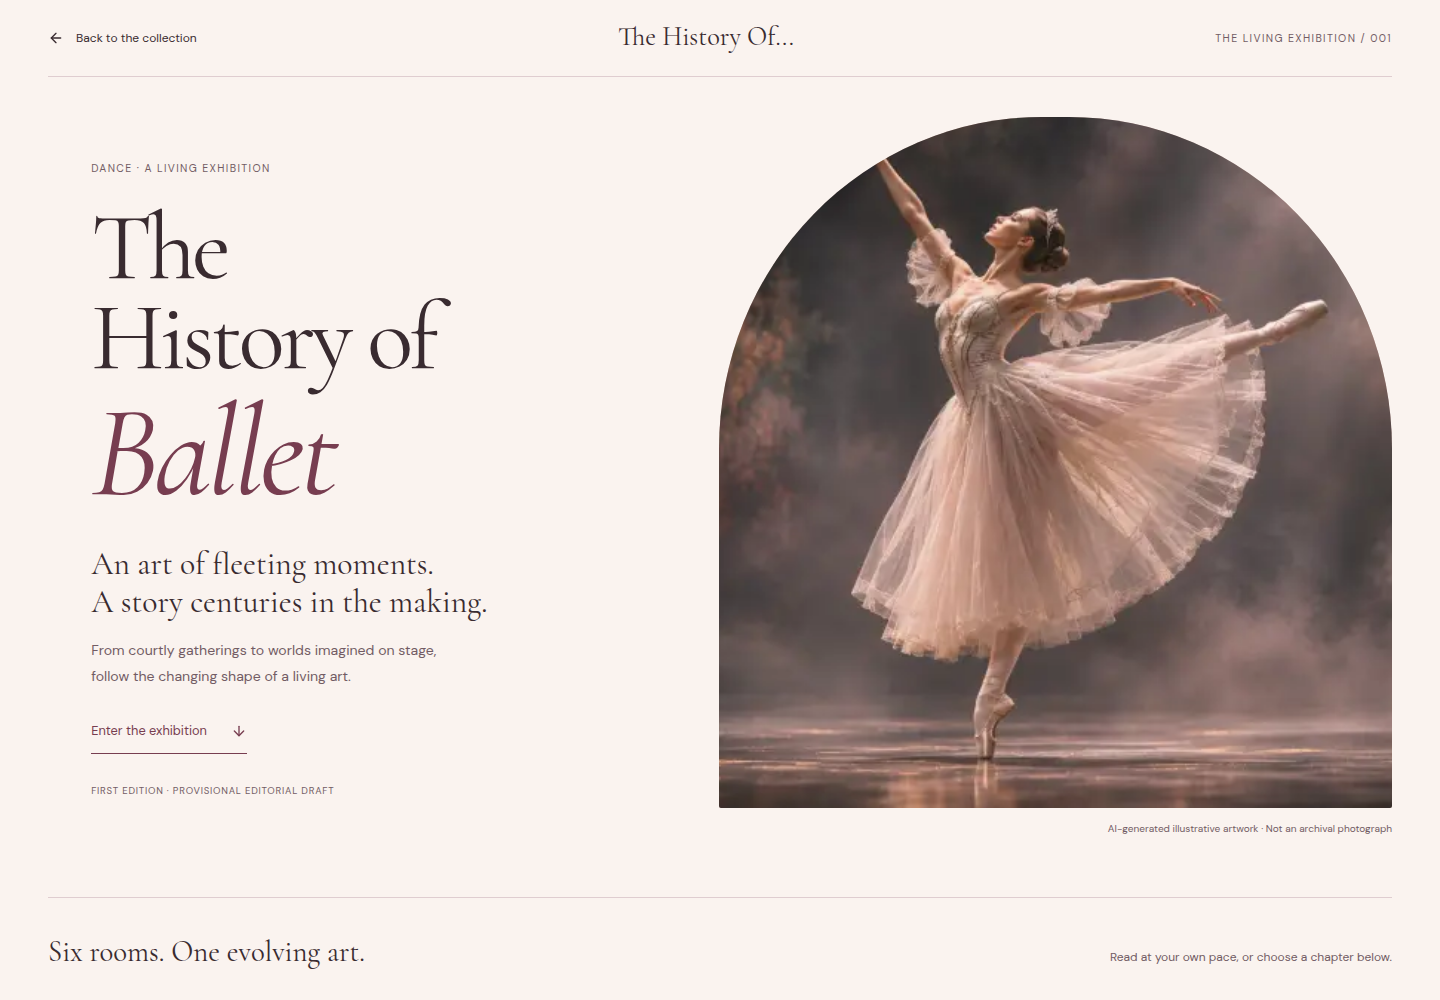
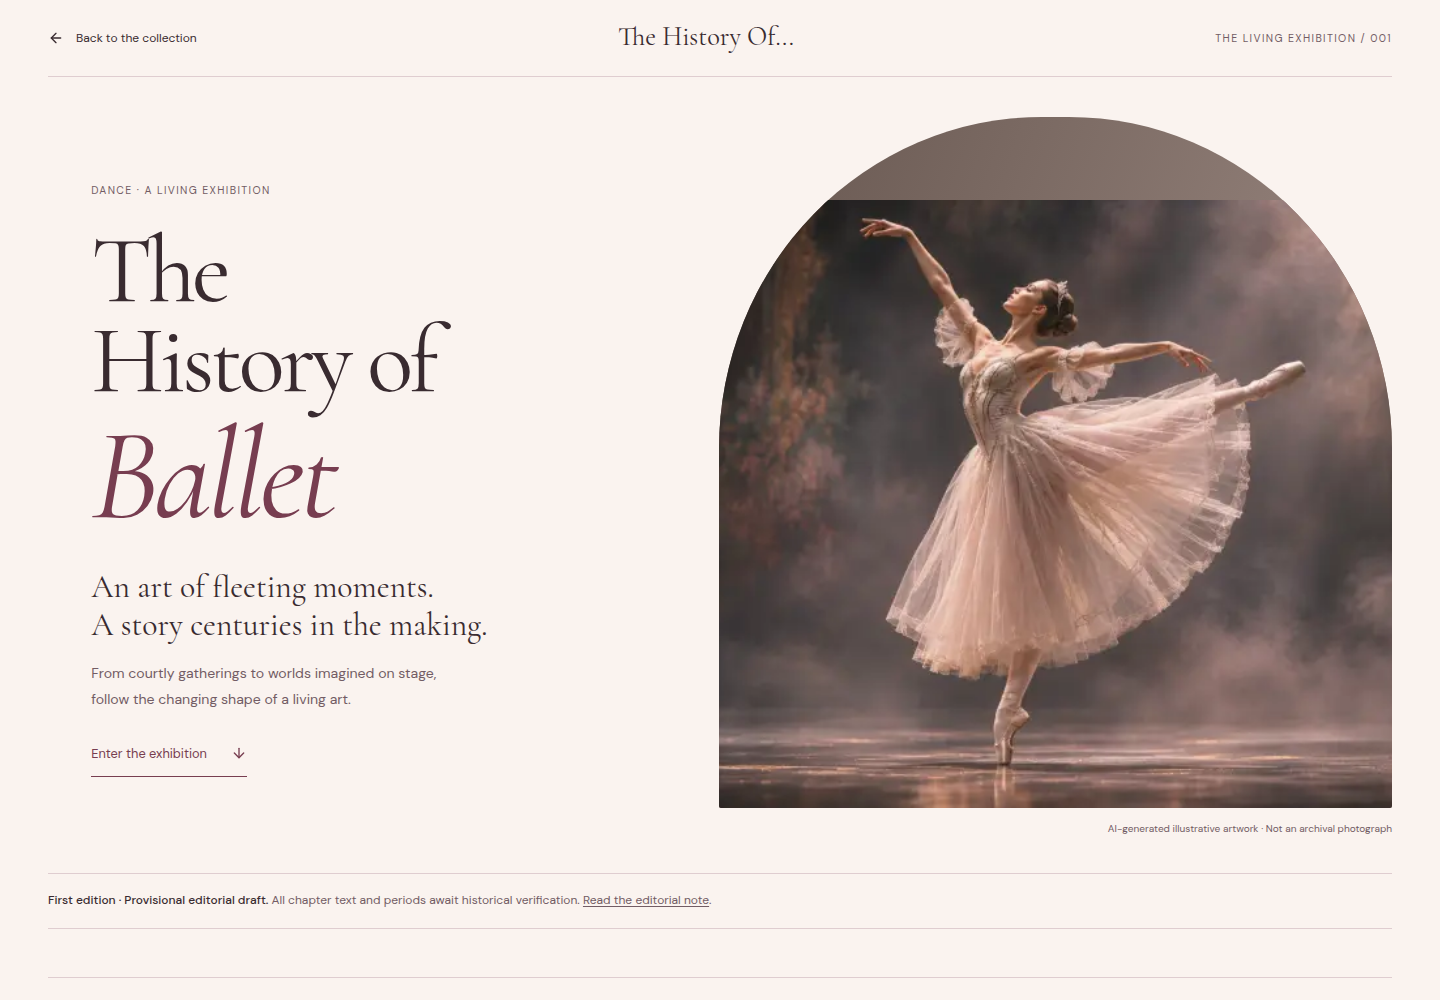
Refine Ballet framing and chapter navigation after review

diff --git a/src/app/ballet/ballet.css b/src/app/ballet/ballet.css
@@ -12,8 +12,8 @@
 .ballet-header { display: flex; align-items: center; justify-content: space-between; gap: 1.5rem; margin-inline: auto; width: calc(100% - 6rem); padding-block: 1rem; border-bottom: 1px solid var(--rule); }
 .ballet-returnLink { display: inline-flex; align-items: center; gap: .75rem; font-size: .75rem; }
 .ballet-wordmark, .ballet-footer > a { display: inline-flex; align-items: center; font-family: var(--font-display), Georgia, serif; font-size: 1.65rem; }
-.ballet-headerLabel, .ballet-eyebrow, .ballet-edition, .ballet-draftLabel, .ballet-previewLabel { font-size: .66rem; letter-spacing: .13em; line-height: 1.8; text-transform: uppercase; }
-.ballet-headerLabel, .ballet-eyebrow, .ballet-edition, .ballet-draftLabel { color: var(--muted); }
+.ballet-headerLabel, .ballet-eyebrow, .ballet-previewLabel { font-size: .66rem; letter-spacing: .13em; line-height: 1.8; text-transform: uppercase; }
+.ballet-headerLabel, .ballet-eyebrow { color: var(--muted); }
 .ballet-hero { display: grid; grid-template-columns: 1fr 1.08fr; padding: 2.5rem 3rem 0; max-width: 100rem; margin-inline: auto; align-items: center; gap: 3rem; }
 .ballet-heroCopy { padding: 2.5rem 0 3rem 3vw; }
 .ballet-eyebrow { margin: 0; }
@@ -23,15 +23,15 @@
 .ballet-heroDescription { font-size: .88rem; line-height: 1.85; max-width: 23rem; color: var(--muted); }
 .ballet-beginLink, .ballet-nextLink { display: inline-flex; align-items: center; justify-content: space-between; gap: 1.5rem; font-size: .8rem; border-bottom: 1px solid var(--wine); padding-block: .8rem; color: var(--wine); }
 .ballet-beginLink { margin-top: 1.2rem; }
-.ballet-edition { margin-top: 1.75rem; font-size: .6rem; letter-spacing: .08em; }
+
 .ballet-heroFigure { margin: 0; min-width: 0; }
-.ballet-heroImage { position: relative; height: clamp(30rem, 48vw, 46rem); background: #d9bdb7; border-radius: 48% 48% 2px 2px; overflow: hidden; }
-.ballet-heroImage img { object-fit: cover; object-position: 52% center; }
+.ballet-heroImage { position: relative; height: clamp(30rem, 48vw, 46rem); background: linear-gradient(110deg, #66564f, #a28f88); border-radius: 48% 48% 2px 2px; overflow: hidden; }
+.ballet-heroImage img { position: absolute; top: 12%; left: 0; width: 100%; height: 88%; object-fit: cover; object-position: center; }
 .ballet-heroFigure figcaption { font-size: .63rem; color: var(--muted); line-height: 1.7; padding: .75rem 0; text-align: right; }
 .ballet-threshold { margin: 3rem 3rem 0; padding: 2rem 0; border-block: 1px solid var(--rule); display: flex; align-items: baseline; justify-content: space-between; gap: 1rem; }
 .ballet-threshold p { font-family: var(--font-display), Georgia, serif; font-size: 1.8rem; margin: 0; }
 .ballet-threshold span { font-size: .75rem; color: var(--muted); }
-.ballet-storyLayout { display: grid; grid-template-columns: 17rem minmax(0, 1fr); max-width: 100rem; margin-inline: auto; padding: 0 3rem; gap: 3rem; }
+.ballet-storyLayout { display: grid; grid-template-columns: 17rem minmax(0, 1fr); max-width: 100rem; margin-inline: auto; padding: 0 3rem 0 1.5rem; gap: 4.5rem; }
 .ballet-chapterNav { position: sticky; top: 1rem; align-self: start; padding-block: 2.5rem; }
 .ballet-navTitle { font-size: .65rem; letter-spacing: .12em; text-transform: uppercase; margin: 0 0 1.5rem; color: var(--wine); }
 .ballet-navTitle > span { display: block; font-size: .6rem; letter-spacing: .05em; margin-top: .5rem; color: var(--muted); }
@@ -51,8 +51,8 @@
 .ballet-summary { max-width: 30rem; line-height: 1.8; font-size: .9rem; margin: 1.5rem 0 0; }
 .ballet-motif { position: absolute; bottom: -.2em; right: .1em; font-family: var(--font-display), Georgia, serif; font-size: clamp(4rem, 8vw, 9rem); font-style: italic; color: #78485812; z-index: -1; }
 .ballet-storyText { max-width: 38rem; margin: 2.5rem auto 4rem; padding-inline: 1.5rem; }
-.ballet-storyText > p:not(.ballet-draftLabel) { font-size: 1rem; line-height: 1.95; margin-block: 1.25rem; }
-.ballet-draftLabel { font-size: .6rem; letter-spacing: .07em; }
+.ballet-storyText > p { font-size: 1rem; line-height: 1.95; margin-block: 1.25rem; }
+
 .ballet-chapter[data-room="2"] .ballet-roomEntrance { background: #e7e6dc; border-top: 3px solid #929580; }
 .ballet-chapter[data-room="2"] .ballet-roomEntrance::after { border-radius: 0; transform: rotate(0); inset: 1.5rem; width: auto; height: auto; }
 .ballet-chapter[data-room="3"] .ballet-roomEntrance { background: radial-gradient(ellipse at 85% 15%, #fff5ee, transparent 60%), #ead5dc; min-height: 27rem; }
@@ -86,7 +86,7 @@
   .ballet-hero { grid-template-columns: 1fr 1fr; gap: 1.5rem; padding: 2rem 1.5rem 0; }
   .ballet-heroCopy { padding: 1rem 0; }
   .ballet-hero h1 { font-size: clamp(3.25rem, 7vw, 5rem); }
-  .ballet-heroImage { height: 35rem; }
+  .ballet-heroImage { height: auto; aspect-ratio: 1 / 1.05; }
   .ballet-threshold { margin: 2rem 1.5rem 0; }
   .ballet-storyLayout { display: block; padding-inline: 1.5rem; }
   .ballet-chapterNav { position: static; padding-bottom: 1.5rem; }
@@ -110,8 +110,8 @@
   .ballet-deck { font-size: 1.8rem; margin-top: 1.5rem; }
   .ballet-heroDescription { max-width: 27rem; }
   .ballet-beginLink { margin-top: .5rem; }
-  .ballet-edition { margin-top: 1rem; }
-  .ballet-heroImage { height: auto; aspect-ratio: 4 / 5; }
+
+  .ballet-heroImage { height: auto; aspect-ratio: 1 / 1.05; }
   .ballet-heroFigure figcaption { font-size: .6rem; text-align: left; }
   .ballet-threshold { display: block; padding-block: 1.5rem; margin-top: 1.5rem; }
   .ballet-threshold p { margin-bottom: .5rem; }
@@ -123,4 +123,35 @@
   .ballet-storyText { padding-inline: .25rem; margin-top: 2rem; }
   .ballet-discovery { padding: 1.5rem; }
   .ballet-footer { flex-wrap: wrap; }
+}
+
+/* Native disclosure keeps all chapter anchors available without JavaScript. */
+.ballet-chapterIndex summary { cursor: pointer; min-height: 44px; padding-block: .85rem; font-size: .8rem; color: var(--wine); }
+.ballet-currentChapter { display: block; font-size: .7rem; color: var(--muted); margin-top: .4rem; }
+.ballet-draftNotice { margin: 1.5rem 3rem 0; padding-block: 1rem; border-block: 1px solid var(--rule); color: var(--muted); }
+.ballet-draftNotice p { margin: 0; font-size: .75rem; line-height: 1.8; }
+.ballet-draftNotice strong { font-weight: 500; color: var(--foreground); }
+.ballet-draftNotice a { text-decoration: underline; text-underline-offset: .2em; }
+@media (min-width: 60rem) {
+  .ballet-chapterIndex[open] summary { display: none; }
+  .ballet-chapter[data-room="2"], .ballet-chapter[data-room="6"] { display: grid; grid-template-columns: minmax(0, 1fr) minmax(0, 1fr); align-items: center; gap: 2rem; }
+  .ballet-chapter[data-room="2"] .ballet-roomEntrance, .ballet-chapter[data-room="6"] .ballet-roomEntrance { padding: 2.5rem 2rem; min-height: 30rem; }
+  .ballet-chapter[data-room="2"] h2, .ballet-chapter[data-room="6"] h2 { font-size: clamp(2.5rem, 3vw, 3.75rem); }
+  .ballet-chapter[data-room="2"] .ballet-storyText, .ballet-chapter[data-room="6"] .ballet-storyText { padding: 0; margin-block: 2rem; }
+}
+@media (max-width: 70rem) and (min-width: 60rem) {
+  .ballet-storyLayout { gap: 3rem; }
+  .ballet-chapter[data-room="2"], .ballet-chapter[data-room="6"] { display: block; }
+}
+@media (max-width: 59.99rem) {
+  .ballet-storyLayout { padding-inline: 1.5rem; }
+  .ballet-draftNotice { margin-inline: 1.5rem; }
+  .ballet-chapterNav { padding-block: 1rem; border-bottom: 1px solid var(--rule); }
+  .ballet-indexLinks { padding-top: 1rem; }
+}
+@media (max-width: 39.99rem) {
+  .ballet-hero { padding-top: 1rem; }
+  .ballet-hero h1 { margin-block: 1rem; }
+  .ballet-deck { margin-block: 1rem .75rem; }
+  .ballet-heroDescription { margin-block: .75rem; }
 }

diff --git a/src/components/story/ChapterNav.tsx b/src/components/story/ChapterNav.tsx
@@ -9,6 +9,11 @@ export function ChapterNav({ chapters }: { chapters: readonly ChapterLink[] }) {
   const [active, setActive] = useState<string | null>(null);
 
   useEffect(() => {
+    const index = document.querySelector<HTMLDetailsElement>(".ballet-chapterIndex");
+    const desktop = window.matchMedia("(min-width: 60rem)");
+    const syncIndex = () => { if (index) index.open = desktop.matches; };
+    syncIndex();
+    desktop.addEventListener("change", syncIndex);
     const sections = chapters.map(({ id }) => document.getElementById(id));
     let frame = 0;
     const update = () => {
@@ -26,26 +31,37 @@ export function ChapterNav({ chapters }: { chapters: readonly ChapterLink[] }) {
     window.addEventListener("scroll", schedule, { passive: true });
     window.addEventListener("resize", schedule);
     return () => {
+      desktop.removeEventListener("change", syncIndex);
       cancelAnimationFrame(frame);
       window.removeEventListener("scroll", schedule);
       window.removeEventListener("resize", schedule);
     };
   }, [chapters]);
 
+  const currentChapter = chapters.find((chapter) => chapter.id === active);
+
   return (
     <nav className="ballet-chapterNav" aria-label="Ballet chapters">
-      <p className="ballet-navTitle">Inside the exhibition <span>Six chapters</span></p>
-      <ol>
-        {chapters.map((chapter, index) => (
-          <li key={chapter.id}>
-            <a href={`#${chapter.id}`} aria-current={active === chapter.id ? "location" : undefined}>
-              <span className="ballet-navNumber" aria-hidden="true">{String(index + 1).padStart(2, "0")}</span>
-              <span>{chapter.label}<small>{chapter.period}</small></span>
-            </a>
-          </li>
-        ))}
-      </ol>
-      <a className="ballet-navFoot" href="#editorial-note">About this first edition ↗</a>
+      <details className="ballet-chapterIndex">
+        <summary>
+          <span className="ballet-indexAction">Explore chapters</span>
+          <span className="ballet-currentChapter">{currentChapter ? `Reading: ${currentChapter.label}` : "Six rooms · Choose your path"}</span>
+        </summary>
+        <div className="ballet-indexLinks">
+          <p className="ballet-navTitle">Inside the exhibition <span>Six chapters</span></p>
+          <ol>
+            {chapters.map((chapter, index) => (
+              <li key={chapter.id}>
+                <a href={`#${chapter.id}`} aria-current={active === chapter.id ? "location" : undefined}>
+                  <span className="ballet-navNumber" aria-hidden="true">{String(index + 1).padStart(2, "0")}</span>
+                  <span>{chapter.label}<small>{chapter.period}</small></span>
+                </a>
+              </li>
+            ))}
+          </ol>
+          <a className="ballet-navFoot" href="#editorial-note">About this first edition ↗</a>
+        </div>
+      </details>
     </nav>
   );
 }

diff --git a/src/app/ballet/page.tsx b/src/app/ballet/page.tsx
@@ -30,15 +30,17 @@ export default function BalletPage() {
             <p className="ballet-deck">An art of fleeting moments.<br />A story centuries in the making.</p>
             <p className="ballet-heroDescription">From courtly gatherings to worlds imagined on stage, follow the changing shape of a living art.</p>
             <a href="#renaissance-courts" className="ballet-beginLink">Enter the exhibition <ArrowDown size={16} aria-hidden="true" /></a>
-            <p className="ballet-edition">First edition · Provisional editorial draft</p>
           </div>
           <figure className="ballet-heroFigure">
             <div className="ballet-heroImage">
-              <Image src={artwork.src} alt={`Illustration: ${artwork.alt}`} fill sizes="(min-width: 960px) 55vw, 100vw" preload />
+              <Image src={artwork.src} alt={`Illustration: ${artwork.alt}`} width={1672} height={941} sizes="(min-width: 960px) 55vw, 100vw" preload />
             </div>
             <figcaption>{artwork.attribution} · Not an archival photograph</figcaption>
           </figure>
         </section>
+        <aside className="ballet-draftNotice" aria-label="Editorial status">
+          <p><strong>First edition · Provisional editorial draft.</strong> All chapter text and periods await historical verification. <a href="#editorial-note">Read the editorial note</a>.</p>
+        </aside>
         <div className="ballet-threshold">
           <p>Six rooms. One evolving art.</p>
           <span>Read at your own pace, or choose a chapter below.</span>
@@ -58,7 +60,6 @@ export default function BalletPage() {
                     <span className="ballet-motif" aria-hidden="true">{chapter.motif}</span>
                   </div>
                   <div className="ballet-storyText">
-                    <p className="ballet-draftLabel">Provisional narrative · Sources pending</p>
                     {chapter.story.map((paragraph) => <p key={paragraph}>{paragraph}</p>)}
                     {chapter.discoveries?.map((discovery) => (
                       <aside key={discovery.id} className="ballet-discovery" aria-labelledby={`${discovery.id}-title`}>

diff --git a/docs/review/ballet-phase-1/README.md b/docs/review/ballet-phase-1/README.md
@@ -20,6 +20,9 @@ Captured from the successful production build in headless Chrome, using the exis
 - [Mobile entrance, 375 × 812](mobile.png)
 - [Mobile chapter index, 375 × 812](mobile-chapters.png)
 - [Mobile complete page, 375px wide](mobile-full.png)
+- [Mobile complete pose and attribution](mobile-pose.png)
+- [Mobile chapter index expanded](mobile-chapters-open.png)
+- [Desktop chapter layout variation](desktop-variation.png)
 
 ## Validation
 
@@ -37,7 +40,7 @@ Captured from the successful production build in headless Chrome, using the exis
 
 ## Content and asset provenance
 
-The sole content source for this skeleton is the repository's approved Phase 1 brief and its six-room outline. All narrative and approximate period labels are explicitly provisional; no external historical research, verified historical citations or quotations are claimed. The page keeps a visible editorial note and labels every chapter's narrative as awaiting sources.
+The sole content source for this skeleton is the repository's approved Phase 1 brief and its six-room outline. All narrative and approximate period labels are explicitly provisional; no external historical research, verified historical citations or quotations are claimed. The page keeps a visible editorial note and clearly labels the entire edition as awaiting historical verification near the start, with a detailed note at the end.
 
 `public/images/exhibits/ballet.webp` is reused from the existing subject collection. Its existing attribution is **AI-generated illustrative artwork**. It is visibly labeled as non-archival; it does not identify a real performer, production, costume or date. Chapter ornaments are CSS geometry, not historical artifacts. No external or newly generated media were added.
 
@@ -48,3 +51,16 @@ The sole content source for this skeleton is the repository's approved Phase 1 b
 - Review the romantic palette, six room treatments, mobile index and final narrative length from these screenshots.
 - The costume discovery remains a labeled static preview, with no drawer or hotspot behavior. Its actual content and media need research and later-phase approval.
 - No blockers remain for Phase 1 code review. Historical publication readiness and later-phase interactions remain intentionally pending.
+
+## Owner review refinements — 2026-11-09
+
+Addressed both owner feedback notes on PR #2 within Phase 1:
+
+- Mobile chapter navigation is now a native `details` / `summary` disclosure, collapsed by default with current reading context. Native anchors remain keyboard accessible. At desktop widths it opens as the existing rail; without JavaScript the disclosure still opens normally.
+- Removed six repetitive draft labels. One accessible, visible edition notice before the chapter sequence covers all narrative and period labels and links to the detailed closing editorial note.
+- Rooms 2 and 6 use a paired entrance/story layout on wide desktops. Both stay to the right of the rail, with the same bounded reading width. Smaller screens return to a comfortable vertical flow.
+- Moved the desktop rail 24px farther left and increased its gap to the chapter column by 24px at 1440px. The chapter column stays in its original position; mobile gutters remain 24px.
+- Reduced mobile hero spacing without reducing the readable text sizes. Updated mobile screenshots show the resulting opening rhythm.
+- Preserved the arched frame and existing image. The source contains both hands and feet but lacks enough overhead margin for the original full-bleed dome crop. The revised frame reserves a narrow, explicitly decorative gradient cap above the illustration (12% headroom), then fits the photograph-like illustration below it. This is CSS framing, not generated or reconstructed historical content. Both hands and feet remain visible in the inspected 1440px and 375px screenshots; the cap's appearance remains an owner visual decision.
+
+Re-ran lint, TypeScript and production build successfully. Repeated 320/375/768/1440px, short-viewport, reduced-motion, focus/anchor and reflow checks. Source-image extremity coordinates were checked against the rendered arched clip at all four widths. The mobile index opens via keyboard; anchors move focus and update active location. All six links also work in the native disclosure with JavaScript disabled. No page errors or horizontal overflow. Updated screenshots replace the previous review captures.
